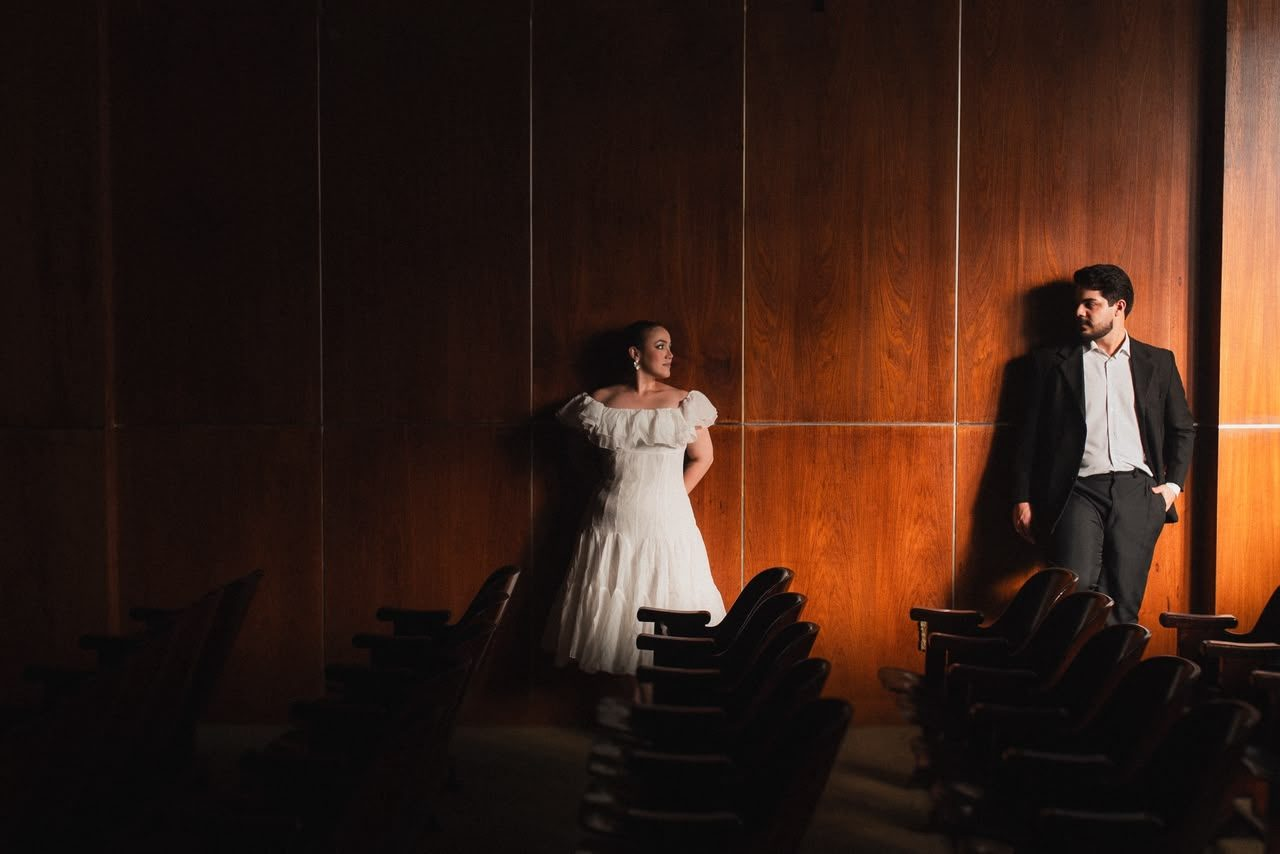
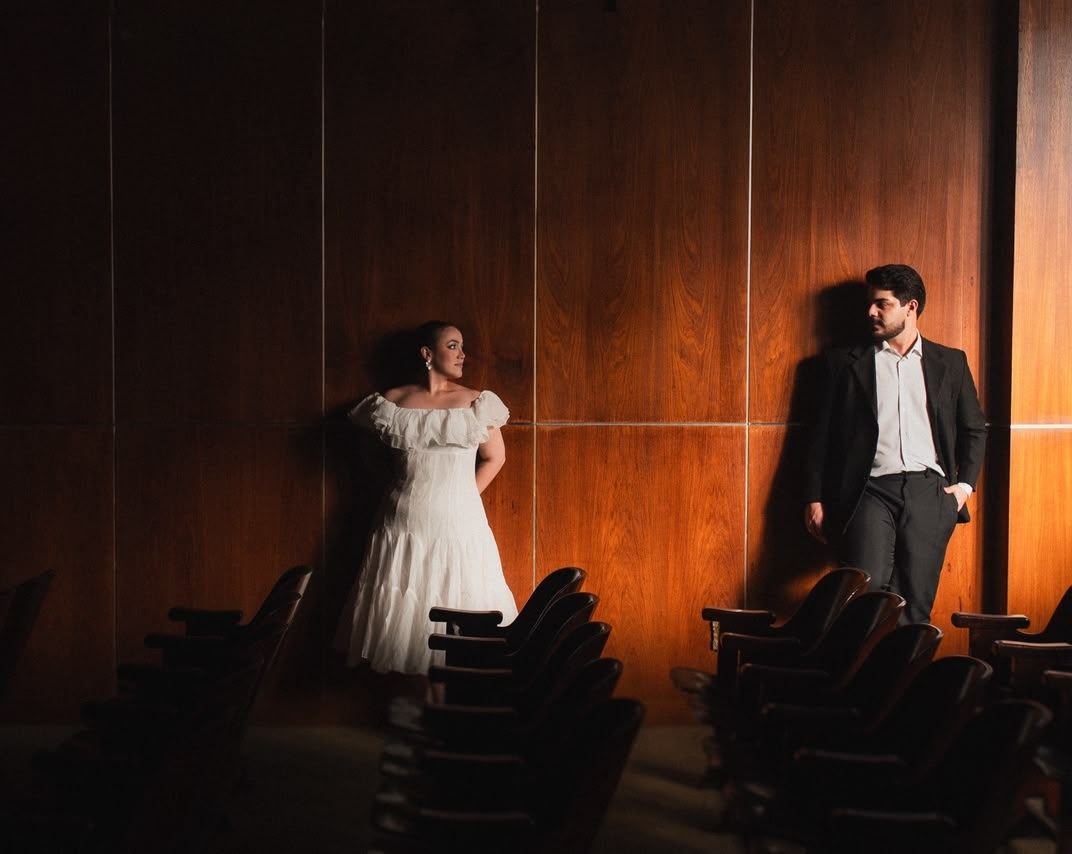
Galeria: corta a esquerda da foto do auditório e corrige o celular (#30)
Corta 208 px da esquerda da foto do auditório. No celular, a galeria fica em 2 colunas e a foto deitada aparece inteira, o que tira a rolagem lateral causada pelo #29. No computador, a foto deitada fica em 16:9.

diff --git a/css/style.css b/css/style.css
@@ -858,18 +858,18 @@ p {
 
 .gallery-grid {
     display: grid;
-    grid-template-columns: repeat(4, 1fr);
+    grid-template-columns: repeat(4, minmax(0, 1fr));
     gap: 24px;
 }
 
 /* Fotos em pé aparecem inteiras (2:3); a foto deitada ocupa a largura toda */
 .gallery-item.foto-larga {
     grid-column: 1 / -1;
-    aspect-ratio: 21 / 9;
+    aspect-ratio: 16 / 9;
 }
 
 .gallery-item.foto-larga .gallery-img {
-    object-position: 50% 62%;
+    object-position: 50% 58%;
 }
 
 .gallery-item {
@@ -1997,11 +1997,13 @@ p {
     }
     
     .gallery-grid {
-        grid-template-columns: 1fr;
+        grid-template-columns: repeat(2, minmax(0, 1fr));
+        gap: 12px;
     }
 
-    .gallery-item {
-        min-height: 280px;
+    /* No celular: fotos em pé em 2 colunas e a deitada inteira na largura toda */
+    .gallery-item.foto-larga {
+        aspect-ratio: 1072 / 854;
     }
     
     .pix-visual-container {

diff --git a/index.html b/index.html
@@ -39,7 +39,7 @@
         rel="stylesheet">
 
     <!-- Arquivo de estilos principal -->
-    <link rel="stylesheet" href="css/style.css?v=20261126">
+    <link rel="stylesheet" href="css/style.css?v=20261126b">
     <link rel="stylesheet" href="css/envelope.css">
 
     <!-- Biblioteca de ícones Lucide -->
